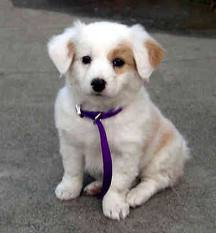
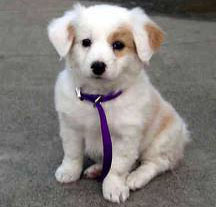
resized images, changed font color & style for articles

diff --git a/04-class-css/exercise1/index.html b/04-class-css/exercise1/index.html
@@ -18,6 +18,7 @@
     <img src='images/dog.jpg'/>
     <h1>Heading for Dog</h1>
     <h2>By Frank Doe</h2>
+    <br>
     <p>Suspendisse mattis metus et justo. Aliquam erat volutpat. Suspendisse
       potenti. Nam hendrerit lorem commodo metus laoreet ullamcorper. Proin vel
       nunc a felis sollicitudin pretium. Maecenas in metus at mi mollis posuere.
@@ -38,6 +39,7 @@
     
     <h1>Heading for Cat</h1>
     <h2>By Frank Doe</h2>
+    <br>
     <p>Suspendisse mattis metus et justo. Aliquam erat volutpat. Suspendisse
       potenti. Nam hendrerit lorem commodo metus laoreet ullamcorper. Proin vel
       nunc a felis sollicitudin pretium. Maecenas in metus at mi mollis posuere.

diff --git a/04-class-css/exercise1/style.css b/04-class-css/exercise1/style.css
@@ -92,14 +92,17 @@ h1
 font-family:arial;
 font-weight:bold;
 font-size:2em;
+color:black;
 }
 
 
 h2
 {
-color:gray;
+color:#909090;
 font-family:arial;
 }
+
+
 
 
 article
@@ -108,6 +111,10 @@ float:left;
 width:45%;
 padding:2px;
 margin:12px;
+line-height:1.2;
+font-family:arial;
+color:gray;
+
 }
 
 
@@ -116,6 +123,7 @@ img
 float:left;
 margin:2px;
 padding-right:10px;
+padding-bottom:3px;
 }
 
 
